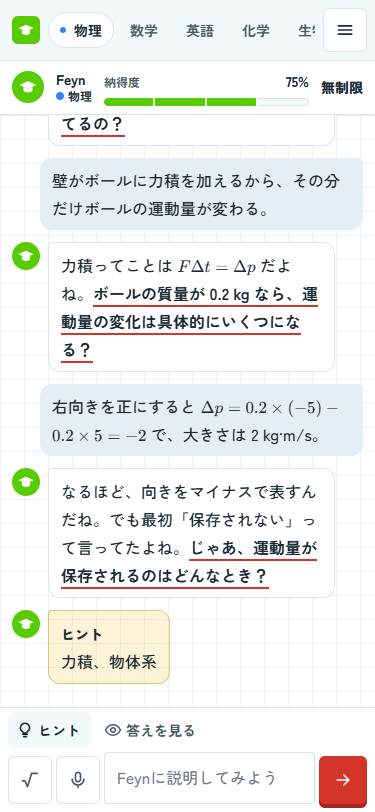
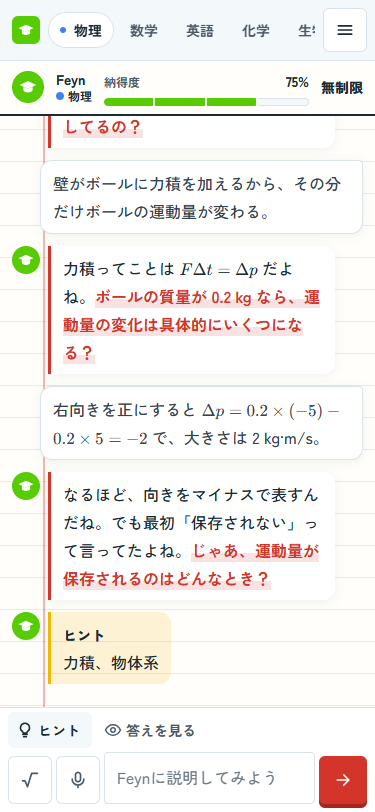
チャット画面に「ノートと赤ペン」を強める（C案）
- 最初の作り直しが淡白すぎたため、3案（黒板の帯・Feynの顔・ノートと赤ペン）の見本を作り、C案を採用
- 会話の地を罫線ノートにし、左に赤い余白線（Feynのアイコンは余白、吹き出しは線の右）
- Feynの吹き出しは左に赤ペンの線、最後の質問の文は赤ペンの字に薄い赤の蛍光ペン
- 自分の吹き出しは罫線の枠の白いメモ（鉛筆の色の文字）、上の帯はノートの見出しの線
- ダークモード（夜の黒板）にも同じ形を用意。docs/DESIGN.md に罫線ノートのトークンと「メモ」の影を追加
- 改善後のスクリーンショット・比較・見本（options-*.png）・REPORT.md を更新

Changed region(s): [[0.0293, 0.1232, 0.968, 0.8621], [0.88, 0.1232, 0.9093, 0.1539]]

diff --git a/style.css b/style.css
@@ -23,7 +23,12 @@
   --brand:      #58CC02;
   --on-brand:   #10240A;
   --meter:      #F2B705;
-  --me-bubble:  #E6EEF5;
+  --note-paper: #FFFEFA;                    /* 会話の地: 罫線ノートの紙（少し生成り） */
+  --note-rule:  rgba(40, 110, 170, 0.13);   /* ノートの罫線 */
+  --margin-line: rgba(212, 53, 42, 0.35);   /* ノートの左の赤い余白線 */
+  --feyn-bubble: #FFFFFF;
+  --me-bubble:  #FFFFFF;
+  --shadow-note: 0 2px 10px rgba(27, 42, 51, 0.07);   /* ノートに貼ったメモ（吹き出し） */
   --hint-bg:    rgba(242, 183, 5, 0.16);
   --hint-line:  rgba(196, 146, 0, 0.45);
   --answer-bg:  rgba(30, 77, 43, 0.08);
@@ -61,7 +66,12 @@
   --red-dark:   #FF8C82;
   --on-red:     #1A0D0B;
   --board:      #0E2416;
-  --me-bubble:  #24322A;
+  --note-paper: #131A16;
+  --note-rule:  rgba(200, 230, 210, 0.08);
+  --margin-line: rgba(255, 107, 94, 0.40);
+  --feyn-bubble: #1B241E;
+  --me-bubble:  #1B241E;
+  --shadow-note: 0 2px 10px rgba(0, 0, 0, 0.30);
   --hint-bg:    rgba(242, 183, 5, 0.14);
   --hint-line:  rgba(242, 183, 5, 0.40);
   --answer-bg:  rgba(120, 200, 140, 0.10);
@@ -305,8 +315,8 @@ a { color: inherit; }
   align-items: center;
   gap: 24px;
   padding: 12px max(24px, calc((100% - var(--col)) / 2));
-  background: var(--paper);
-  border-bottom: 1px solid var(--rule);
+  background: var(--note-paper);
+  border-bottom: 2px solid var(--ink);   /* ノートの見出しの線 */
 }
 
 .feyn-id { display: flex; align-items: center; gap: 12px; min-width: 0; }
@@ -403,16 +413,19 @@ a { color: inherit; }
      ページ全体（body）を基準にしてチャット欄の外にはみ出し、ページが縦に伸びて
      送信時にページごと上にずれる（下に余白が出る）原因になっていた。チャット欄を基準にして中に収める */
   position: relative;
-  padding: 24px max(24px, calc((100% - var(--col)) / 2)) 32px;
+  --pad: max(24px, calc((100% - var(--col)) / 2));
+  --margin-x: calc(var(--pad) + 36px);   /* 赤い余白線の位置（アイコンと吹き出しの間） */
+  padding: 24px var(--pad) 32px;
   display: flex;
   flex-direction: column;
   gap: 16px;
-  /* うっすら方眼（ノートの紙） */
-  background-color: var(--paper);
+  /* 罫線ノートの紙。左に赤い余白線。線は会話と一緒にスクロールする */
+  background-color: var(--note-paper);
   background-image:
-    linear-gradient(var(--grid-line) 1px, transparent 1px),
-    linear-gradient(90deg, var(--grid-line) 1px, transparent 1px);
-  background-size: 24px 24px;
+    linear-gradient(90deg, transparent calc(var(--margin-x) - 1px), var(--margin-line) calc(var(--margin-x) - 1px),
+                    var(--margin-line) calc(var(--margin-x) + 1px), transparent calc(var(--margin-x) + 1px)),
+    repeating-linear-gradient(transparent 0 31px, var(--note-rule) 31px 32px);
+  background-attachment: local;
 }
 .messages::-webkit-scrollbar { width: 8px; }
 .messages::-webkit-scrollbar-track { background: transparent; }
@@ -427,36 +440,36 @@ a { color: inherit; }
   to   { opacity: 1; transform: none; }
 }
 
-/* Feyn（左）: 白い紙・罫線の枠 */
+/* Feyn（左）: ノートに貼ったメモに、赤ペンで書き込み（左に赤い線） */
 .message.feyn { align-self: flex-start; }
 .message.feyn .bubble {
   padding: 12px 16px;
-  background: var(--paper);
-  border: 1px solid var(--rule);
-  border-radius: var(--r-sm) var(--r-lg) var(--r-lg) var(--r-lg);
+  background: var(--feyn-bubble);
+  border-left: 3px solid var(--red);
+  border-radius: 0 var(--r-lg) var(--r-lg) 0;
+  box-shadow: var(--shadow-note);
   color: var(--ink);
   font-size: 16px;
   line-height: 1.75;
   white-space: pre-wrap;
   overflow-wrap: anywhere;
 }
-/* Feynの質問の要点（最後の「？」の文）に赤ペンの下線 */
+/* Feynの質問の要点（最後の「？」の文）: 赤ペンの字に、蛍光ペンを引いたように */
 .bubble .ask {
   font-weight: 700;
-  text-decoration: underline;
-  text-decoration-color: var(--red);
-  text-decoration-thickness: 2px;
-  text-underline-offset: 5px;
-  text-decoration-skip-ink: none;
+  color: var(--red);
+  background: linear-gradient(transparent 62%, color-mix(in srgb, var(--red) 14%, transparent) 62%);
 }
 
-/* あなた（右）: ノートの淡い青 */
+/* あなた（右）: 自分で書いた説明のメモ（鉛筆の文字・罫線の枠） */
 .message.user { align-self: flex-end; flex-direction: row-reverse; }
 .message.user .bubble {
   padding: 12px 16px;
   background: var(--me-bubble);
+  border: 1px solid var(--rule);
   border-radius: var(--r-lg) var(--r-sm) var(--r-lg) var(--r-lg);
-  color: var(--ink);
+  box-shadow: var(--shadow-note);
+  color: var(--pencil);
   font-size: 16px;
   line-height: 1.75;
   white-space: pre-wrap;
@@ -473,8 +486,9 @@ a { color: inherit; }
 .bubble img { max-width: 100%; height: auto; }
 
 /* ヒント（蛍光ペンのメモ）・答え（板書） */
-.message.feyn .bubble.hint { background: var(--hint-bg); border-color: var(--hint-line); }
-.message.feyn .bubble.answer { background: var(--answer-bg); border-color: var(--answer-line); }
+.message.feyn .bubble.hint { background: var(--hint-bg); border-left-color: var(--meter); box-shadow: none; }
+.message.feyn .bubble.answer { background: var(--answer-bg); border-left-color: var(--board); box-shadow: none; }
+[data-theme="dark"] .message.feyn .bubble.answer { border-left-color: var(--brand); }
 .bubble.hint strong, .bubble.answer strong { font-size: 14px; font-weight: 900; }
 
 /* ===== 単元選択などの選択肢 ===== */
@@ -970,7 +984,7 @@ a { color: inherit; }
   .lives-display { flex-direction: row; align-items: center; }
   .lives-label, .lives-timer { display: none; }
 
-  .messages { padding: 16px 12px 24px; gap: 12px; }
+  .messages { --pad: 12px; --margin-x: calc(12px + 32px); padding: 16px 12px 24px; gap: 12px; }
   .message { max-width: 92%; }
   .message.feyn .avatar { width: 28px; height: 28px; }
   .message.feyn .avatar svg { width: 18px; height: 18px; }

diff --git a/tests/test_chat_design.py b/tests/test_chat_design.py
@@ -111,3 +111,13 @@ def test_font_sizes_use_the_scale():
     # 12（注記）・14（小）・16（本文）・18・20・24（見出し）と、大きな数字・判子・数式だけ
     sizes = {int(x) for x in re.findall(r'font-size: (\d+)px', CSS)}
     assert sizes <= {12, 14, 16, 18, 20, 22, 24, 30, 32}, sorted(sizes)
+
+
+def test_chat_is_a_ruled_notebook_with_red_pen():
+    # 2026-11-05 に選んだC案「ノートと赤ペン」: 罫線ノートの地・左の赤い余白線・Feynの質問は赤ペンの字
+    assert 'repeating-linear-gradient(transparent 0 31px, var(--note-rule) 31px 32px)' in CSS
+    assert 'var(--margin-line)' in CSS
+    feyn = re.search(r'\.message\.feyn \.bubble \{([^}]*)\}', CSS).group(1)
+    assert 'border-left: 3px solid var(--red)' in feyn
+    ask = re.search(r'\.bubble \.ask \{([^}]*)\}', CSS).group(1)
+    assert 'color: var(--red)' in ask

diff --git a/docs/chat-redesign/REPORT.md b/docs/chat-redesign/REPORT.md
@@ -1,26 +1,41 @@
 # チャット画面の作り直し レポート（chat-redesign ブランチ）
 
 作業日: 2026-11-05　／　ブランチ: `chat-redesign`（master から作成。master へのコミット・push・デプロイはしていません）
-テスト: 全350件パス（`py -m pytest -q`。このブランチで `tests/test_chat_design.py` を15件追加）
+テスト: 全351件パス（`py -m pytest -q`。このブランチで `tests/test_chat_design.py` を16件追加）
 
 - デザインのルール: [`docs/DESIGN.md`](../DESIGN.md)
 - 診断（改善前の問題と方針）: [`AUDIT.md`](AUDIT.md)
 
 ---
 
+## 途中で方向を決め直したこと（「淡白すぎる」→ C案）
+
+最初の作り直し（白い紙と細い罫線だけ）は「あまりに淡白すぎる」とのことだったので、同じ会話で3つの方向の見本を作って比べた（[options-sp.png](options-sp.png)・[options-pc.png](options-pc.png)）。
+
+- A 黒板の帯（上の帯とサイドバーを黒板の緑に）
+- B Feynの顔（Feynのイラストの顔をアイコンに）
+- **C ノートと赤ペン（会話の地を罫線ノートにし、Feynの質問を赤ペンの字で書き込む）← 採用**
+
+C案では次のようにした。下の「変えたこと」とスクリーンショットは、C案を入れた後のもの。
+- 会話の地を、少し生成りの罫線ノート（32px間隔の罫線）にし、左に赤い余白線。Feynのアイコンは余白線の左、吹き出しは右
+- Feynの吹き出しは「ノートに貼ったメモに赤ペンで書き込み」：左に3pxの赤い線、最後の質問の文は赤ペンの字（太字）に薄い赤の蛍光ペン
+- 自分の吹き出しは「自分で書いた説明のメモ」：白い紙に罫線の枠、文字は鉛筆の色
+- 上の帯は、ノートの見出しのように下に墨の線
+- 見本にあった「No.1」の表示（意味のない番号）と、自分の吹き出しの傾きは入れなかった（傾けると文字がにじんで見えるため）
+
 ## 変えたこと
 
 1. **色をLPのトークンだけにした**: `style.css` の直書きの色30種類をなくし、LPと同じトークン（紙・墨・罫線・赤ペン・黒板の緑・Feynの緑・蛍光ペンの黄）に。部品のCSSに色を直接書いていないことをテストで確かめている。
 2. **科目の色で塗るのをやめた**: 科目の色は「科目名の横の小さな点」だけ。自分の吹き出し・送信ボタン・納得度バーを科目の色で塗らない。
 3. **赤の使い道を2つに**: Feynの質問の印（赤ペンの下線）と、決定のボタン（送信・保存・閉じる・次へ）だけ。
-4. **吹き出し**: Feyn（左）は白い紙＋罫線の枠＋角帽のアイコン、自分（右）はノートの淡い青。LINEと同じ左右。本文はふつうの太さの16pxにし、太字は「質問の要点」とラベルだけ。
-5. **Feynの質問に赤ペン**: Feynの返事のうち、最後の「？」で終わる文に赤の下線と太字。数式を含む文には付けない（数式の表示を壊さないため）。
-6. **立体の影と太い枠をやめた**: 枠は1pxの罫線、角の丸みは 4／6／12px と丸、影は「紙」「重なり」「判子」の3種類だけ。文字の大きさの段は16段 → 9段。
+4. **吹き出し**: Feyn（左）は赤ペンの線の入ったメモ＋角帽のアイコン、自分（右）は罫線の枠の白いメモ（鉛筆の色の文字）。LINEと同じ左右。本文はふつうの太さの16pxにし、太字は「質問の要点」とラベルだけ。
+5. **Feynの質問に赤ペン**: Feynの返事のうち、最後の「？」で終わる文を赤ペンの字（太字）にして、薄い赤の蛍光ペンを引く。数式を含む文には付けない（数式の表示を壊さないため）。
+6. **立体の影と太い枠をやめた**: 枠は1pxの罫線、角の丸みは 4／6／12px と丸、影は「紙」「重なり」「判子」「メモ（吹き出し）」の4種類だけ。文字の大きさの段は16段 → 9段。
 7. **納得度とライフを「欄外」に**: 会話の列の上の細い帯に、Feyn・科目・納得度（25%ごとの目盛りつきの細いバー、100%で「納得！」）・ライフ（丸い印と「1/3」の数字、回復までの時間）を、いつも見える位置にまとめた。キラキラの動きはやめた。
 8. **入力欄**: 画面の下に固定。数式・音声・送信は44px以上（48px）。入力欄は書いた量に合わせて伸びる（対応ブラウザ）。ヒント・答えを見るは、入力欄の上に枠なしの控えめなボタンで。置き換え文は「Feynに説明してみよう」。
 9. **スマホ**: 上の3段（科目・ユーザー操作・Feyn）を、「ロゴ・科目・メニュー」の1段と、「Feyn・納得度・ライフ」の細い1段に。使い方・マイページ・設定・やり直す・ダークモード・ログアウトはメニューの中に入れた（**これまでスマホで変えられなかったニックネーム・試験の種類・ダークモードも変えられるようになった**）。復習どきの苦手があると、メニューのボタンに赤い点。
 10. **PC**: キャラクターのパネル（260pxの列）をやめ、サイドバー1列（科目・きろく・設定・メニュー）＋会話の列に。会話の列は最大760pxで中央に置き、1行が長くなりすぎないようにした。サイドバーは1280×800でスクロールせずに全部見える。
-11. **方眼ノートの世界観**: 会話の背景にうっすら方眼。クリアのときは、赤ペンの「納得！」の判子を押し、DESIGNの色だけの紙吹雪を短く（1.8秒）。結果の画面も「納得！」の判子と赤ペンの「理解の穴」に。
+11. **ノートと赤ペンの世界観**: 会話の地は罫線ノートと左の赤い余白線（上の「C案」）。クリアのときは、赤ペンの「納得！」の判子を押し、DESIGNの色だけの紙吹雪を短く（1.8秒）。結果の画面も「納得！」の判子と赤ペンの「理解の穴」に。
 12. **ダークモード**: LPと同じ「夜の黒板」の配色に。
 13. **絵文字をやめた**: 科目・ボタン・納得度の⭐・ライフの❤🖤・🔥💎・結果の🎉などを、線のアイコン（SVG）と文字に。アイコンだけのボタンには `aria-label` を付けた。
 14. **はみ出し**: 長い文・英単語は折り返し、数式（ブロック）は横スクロール、画像は幅いっぱいまで。
@@ -74,7 +89,7 @@
 
 ## 判断に迷って自分で決めたこと
 
-1. **自分の吹き出しの色を、LINEの緑ではなく「ノートの淡い青」にした**。DESIGNで緑は「Feynだけ」、赤は「Feynの質問と決定ボタンだけ」と決めたため。左右の位置・Feynのアイコンの有無・枠の有無で、一目で区別できるようにした。
+1. **自分の吹き出しを、LINEの緑ではなく「白いメモ（鉛筆の文字）」にした**。DESIGNで緑は「Feynだけ」、赤は「Feynの質問と決定ボタンだけ」と決めたため。左右の位置・Feynのアイコンの有無・左の赤い線の有無で、一目で区別できるようにした。
 2. **送信ボタンは赤（決定のボタン）にした**。DESIGNの「赤は決定のボタンに」の決まりどおり。スマホでは幅を取らないよう、矢印のアイコンだけにした（`aria-label="送信"` あり）。
 3. **「写真のボタン」は入力欄に足さなかった**。今のアプリでは、写真は「単元を選ぶ」ときの選択肢から送る作りで、写真を送ると新しい会話が始まる。会話の途中の入力欄に置くと、押しただけで今の会話が消えてしまうため。選択肢のボタンは高さ40px以上にした。
 4. **質問の印は「最後の『？』の文」だけに付ける**。AIの返事のどこが要点かは文面からは確実に分からないため、Feynのルール（1回の発言で問いは1つ）を頼りに、最後の質問の文にした。数式を含む文は、数式の表示を壊さないよう印を付けない。
